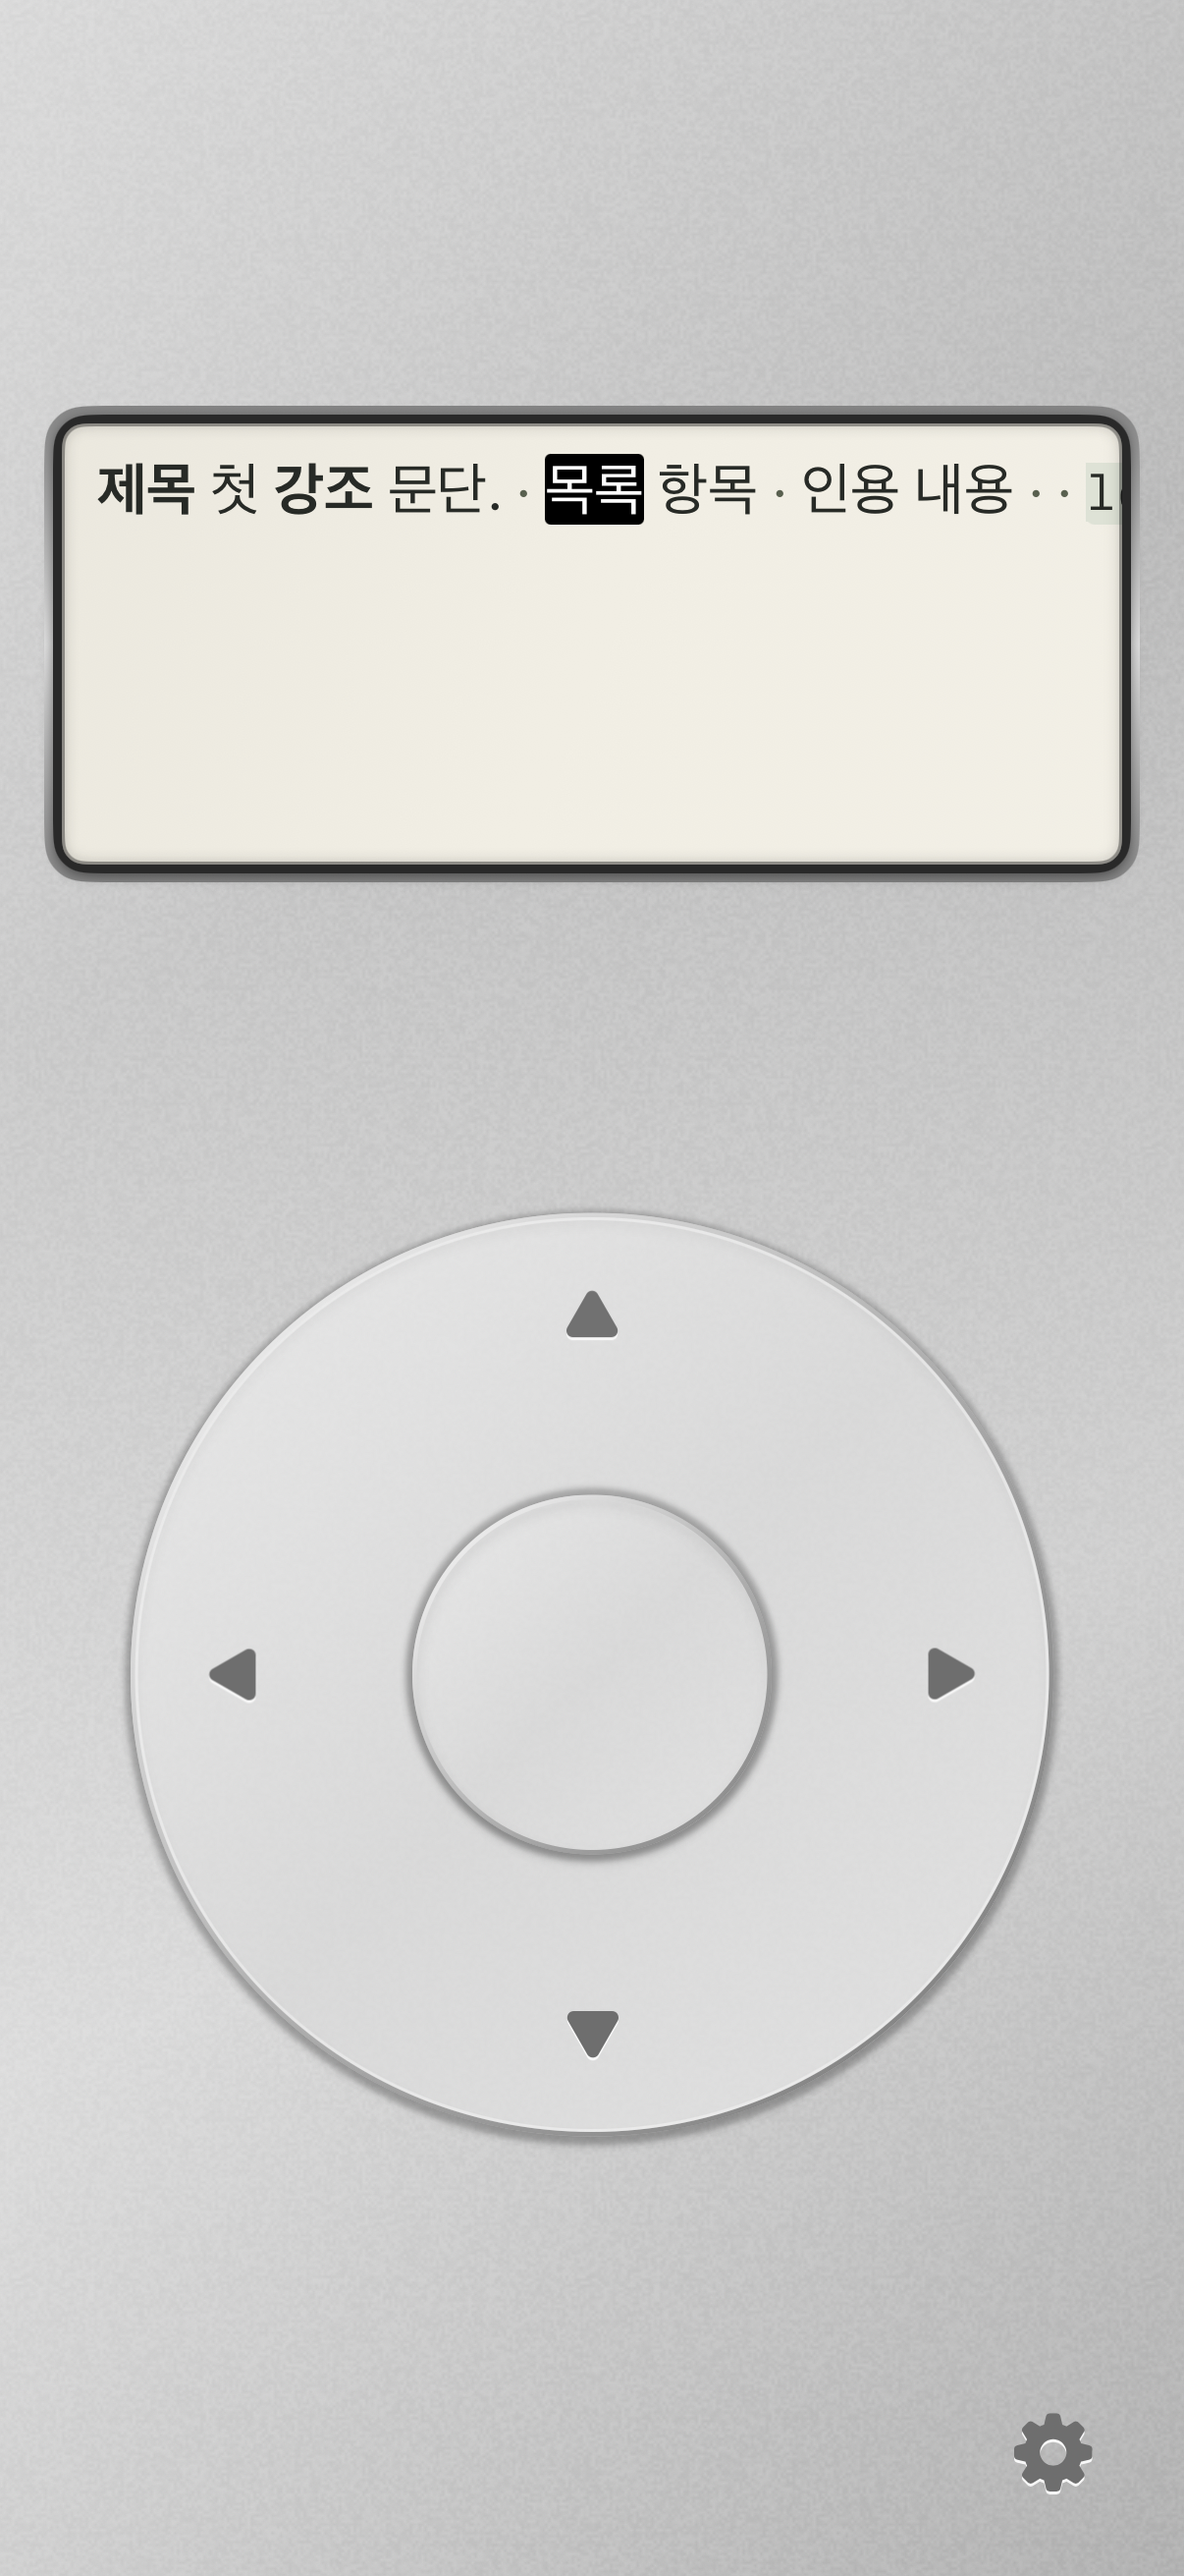
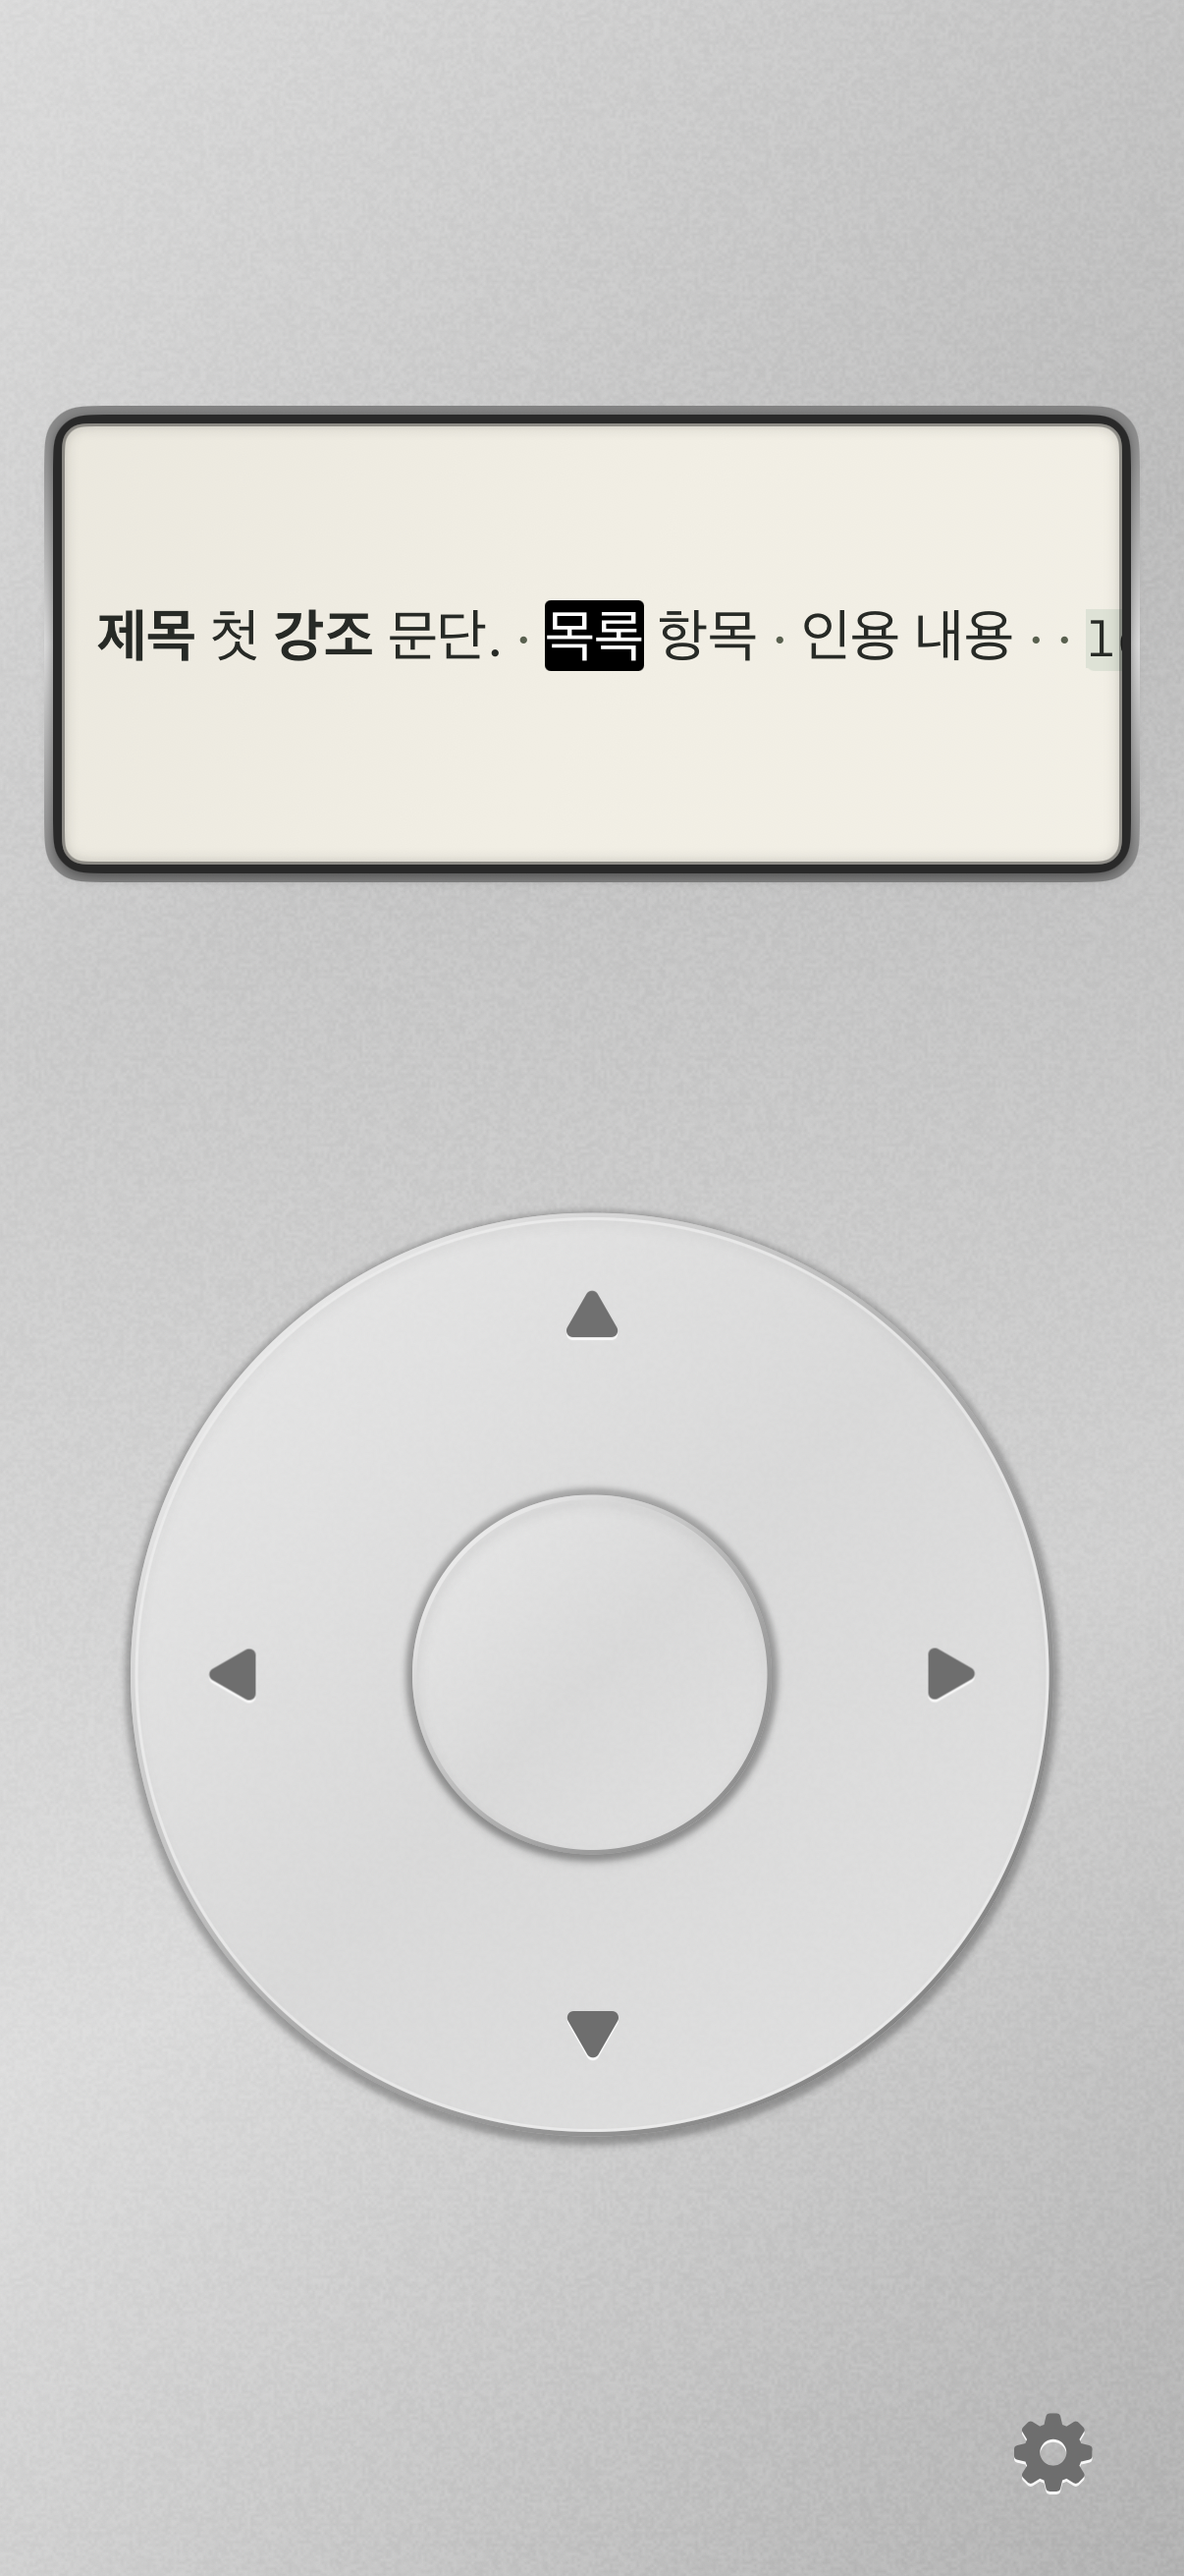
Center horizontal document rail vertically without text resizing

diff --git a/pocket_progressive_reader_hardware_lab_v4.html b/pocket_progressive_reader_hardware_lab_v4.html
@@ -13,6 +13,13 @@
 /* End spacers let even the first/last token snap to the viewport center. */
 #reader-document.horizontal::before,#reader-document.horizontal::after{content:"";display:inline-block;width:50%;height:1px}
 #reader-document.horizontal.has-focus{overflow-x:hidden}
+
+/* Center the single rail vertically without changing its text metrics. */
+#reader-document.horizontal{display:flex;align-items:center}
+#reader-document.horizontal::before,#reader-document.horizontal::after{flex:0 0 50%}
+#reader-document.horizontal .rail-strip{display:block;flex:none;white-space:nowrap;line-height:inherit}
+
+#reader-document{-webkit-text-size-adjust:100%;text-size-adjust:100%}
 </style></head><body>
 <div class="app"><aside class="lab">
 <h1>Pocket Progressive Reader</h1><div class="sub">Hardware + UX decision lab · v4 · manual word focus / visual-width experiment</div>

diff --git a/PocketReader/RichReader/reader.js b/PocketReader/RichReader/reader.js
@@ -72,7 +72,17 @@
       first.scrollIntoView({block:'nearest',inline:'nearest',behavior:'instant'});
     }
   }
-  function setHorizontal(value) { if (root) root.classList.toggle('horizontal', !!value); }
+  function setHorizontal(value) {
+    if (!root) return;
+    root.classList.toggle('horizontal', !!value);
+    const existing = root.querySelector(':scope > .rail-strip');
+    if (value && !existing) {
+      const strip = document.createElement('div'); strip.className = 'rail-strip';
+      strip.append(...root.childNodes); root.append(strip);
+    } else if (!value && existing) {
+      existing.replaceWith(...existing.childNodes);
+    }
+  }
   function mount(payload) {
     root = document.getElementById('reader-document'); if (!root) throw new Error('Missing reader-document'); active = null;
     const source = String(payload.source || '');

diff --git a/PocketReader/RichReader/reader.css b/PocketReader/RichReader/reader.css
@@ -18,3 +18,10 @@ p{margin:.45em 0}h1,h2,h3,h4,h5,h6{line-height:1.25;margin:.5em 0}h1{font-size:1
 /* End spacers let even the first/last token snap to the viewport center. */
 #reader-document.horizontal::before,#reader-document.horizontal::after{content:"";display:inline-block;width:50%;height:1px}
 #reader-document.horizontal.has-focus{overflow-x:hidden}
+
+/* Center the single rail vertically without changing its text metrics. */
+#reader-document.horizontal{display:flex;align-items:center}
+#reader-document.horizontal::before,#reader-document.horizontal::after{flex:0 0 50%}
+#reader-document.horizontal .rail-strip{display:block;flex:none;white-space:nowrap;line-height:inherit}
+
+#reader-document{-webkit-text-size-adjust:100%;text-size-adjust:100%}

diff --git a/docs/FULL_DOCUMENT_REVISION.md b/docs/FULL_DOCUMENT_REVISION.md
@@ -5,7 +5,7 @@ Owner decision: compare progressive reading against a normal whole-document read
 - Presentation modes: Current Only, accumulated past, single-line horizontal. Retired sentence-bounded settings migrate to accumulated past without discarding the saved source.
 - Segmentation adds Full. Full renders the complete source with natural wrapping and vertical scrolling, without reveal gating. Horizontal renders the entire document on one unwrapped line regardless of chunk algorithm.
 - Accumulated past uses equal contrast for every row. Its visible window and active reveal are separate: CCW moves through the existing rows, shifting the window only after crossing its top. The user-selected dim-others word style remains an explicit separate option.
-- Wheel movements still activate transient eojeol focus. In whole-document views left/right move a word position, up/down move a sentence position; all buttons clear fine highlighting. Vertical Full focus scrolls only when the target is outside the viewport. Horizontal Rail instead snaps the selected token's visual center to the viewport center after every navigation change: the document strip moves underneath the stationary target. End spacers permit centering the first and last tokens. While fine focus is active, direct horizontal panning is disabled.
+- Wheel movements still activate transient eojeol focus. In whole-document views left/right move a word position, up/down move a sentence position; all buttons clear fine highlighting. Vertical Full focus scrolls only when the target is outside the viewport. Horizontal Rail centers its single text strip vertically in the reading viewport, and snaps the selected token's visual center to the viewport center after every navigation change: the document strip moves underneath the stationary target. End spacers permit centering the first and last tokens. While fine focus is active, direct horizontal panning is disabled.
 - Full and horizontal use bundled GFM Markdown rendering: headings, emphasis, lists, blockquotes, fenced/inline code, tables, links, task markers and images. Horizontal flattens block layout while preserving inline styles. Remote images require an explicit load tap. Links open on a tap. Scripts and interactive embedded HTML are excluded. Math/Mermaid are not supported.
 - Progressive chunk views continue the existing normalized plain-text rendering; they do not display Markdown block layout or inline typography. Raw Markdown stays editable and unchanged in source settings.
 - The high-contrast style is named `검은 배경`: only the selected word gets black background and white glyphs, matching the yellow-background geometry. Stroke/bold-only rendering is retired.

diff --git a/HANDOFF.md b/HANDOFF.md
@@ -1,7 +1,7 @@
 # Pocket Progressive Reader / Attention-Scaffolded Reading
 ## Codex Handoff
 
-> **2026-10-07 whole-document update:** Full segmentation adds a naturally wrapped, scrollable whole document. Horizontal Rail shows the entire document on one long line and fixes the selected word at the viewport center; rotary navigation moves the strip underneath it. The high-contrast style is black token background with white text (`검은 배경`) in every renderer. Sentence-bounded presentation is retired, past rows have equal contrast, and CCW moves within the existing viewport until crossing its top. Full/horizontal render GFM Markdown; progressive chunks remain normalized plain text. `docs/FULL_DOCUMENT_REVISION.md` is the latest specification. These decisions supersede the historical three-mode and all-bottom-fixed claims below.
+> **2026-10-07 whole-document update:** Full segmentation adds a naturally wrapped, scrollable whole document. Horizontal Rail shows the entire document on one long line and fixes the selected word horizontally at the viewport center, with the entire line also vertically centered; rotary navigation moves the strip underneath it. The high-contrast style is black token background with white text (`검은 배경`) in every renderer. Sentence-bounded presentation is retired, past rows have equal contrast, and CCW moves within the existing viewport until crossing its top. Full/horizontal render GFM Markdown; progressive chunks remain normalized plain text. `docs/FULL_DOCUMENT_REVISION.md` is the latest specification. These decisions supersede the historical three-mode and all-bottom-fixed claims below.
 
 > **2026-10-07 manual word-focus update:** Owner hands-on feedback retires the fixed-gaze experiment completely. Reading is left-aligned. Buttons navigate reveals/sentences and clear fine focus; the rotary wheel implicitly activates a transient eojeol/word cursor and traverses continuously across reveals. Five stationary highlight styles are available. Current Only remains centered and Typewriter remains bottom-fixed. TXT/MD and hardware comparison are preserved. `docs/WORD_FOCUS_REVISION.md` is the latest reading specification.
 

diff --git a/docs/VERIFICATION.md b/docs/VERIFICATION.md
@@ -1,3 +1,11 @@
+# Horizontal Rail vertical centering — 2026-10-07
+
+The single line is now vertically centered as well as horizontally focus-centered. A non-shrinking document strip preserves inline Markdown structure. Automatic WebKit text enlargement is disabled so the configured font size remains unchanged.
+
+Live Chromium checked four viewport heights (76/120/200/240) with plain text and Markdown: 32 token positions, vertical strip center error 0px and horizontal error below 0.5px. Web fixture checks pass. The relevant native Full/Horizontal UI test passed after the final text-size correction (`test_sim_2026-10-07T14-37-00-970Z_pid93255_a04f4570.xcresult`); the exported `rail-center-native.png` was visually inspected. Final signed Release build, iPhone 13 mini installation and launch succeeded. Temporary browser/server stopped.
+
+---
+
 # Black focus and centered Horizontal Rail — 2026-10-07
 
 - Restored black token background / white glyphs in native chunks, Full/horizontal rich rendering and web Canvas. Settings label is `검은 배경`; stored `highContrast` values remain compatible. No glyph-width changes.
